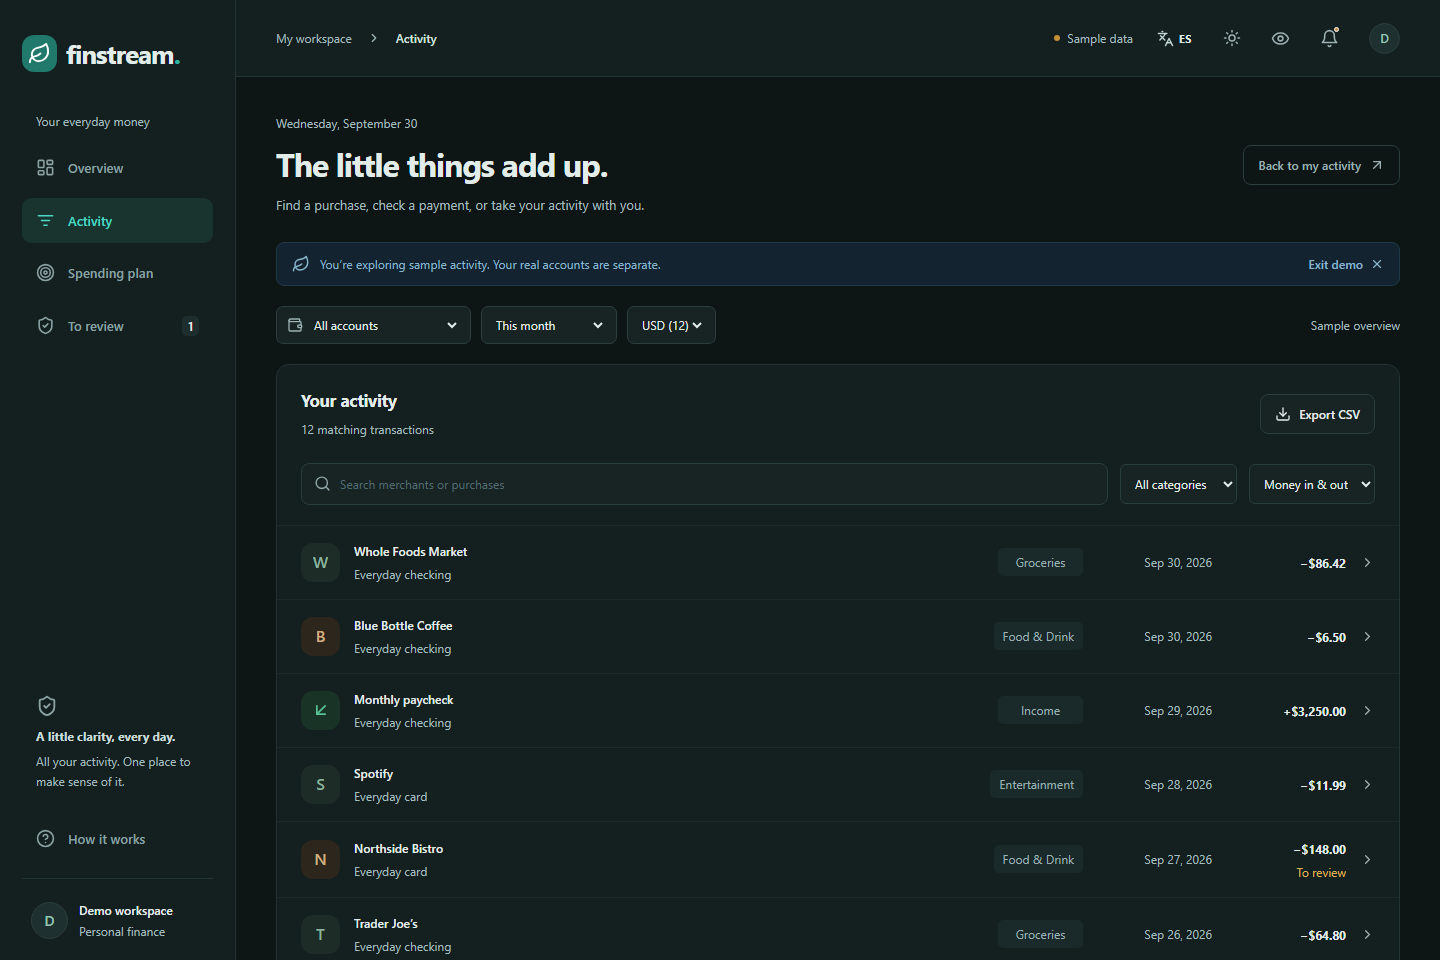
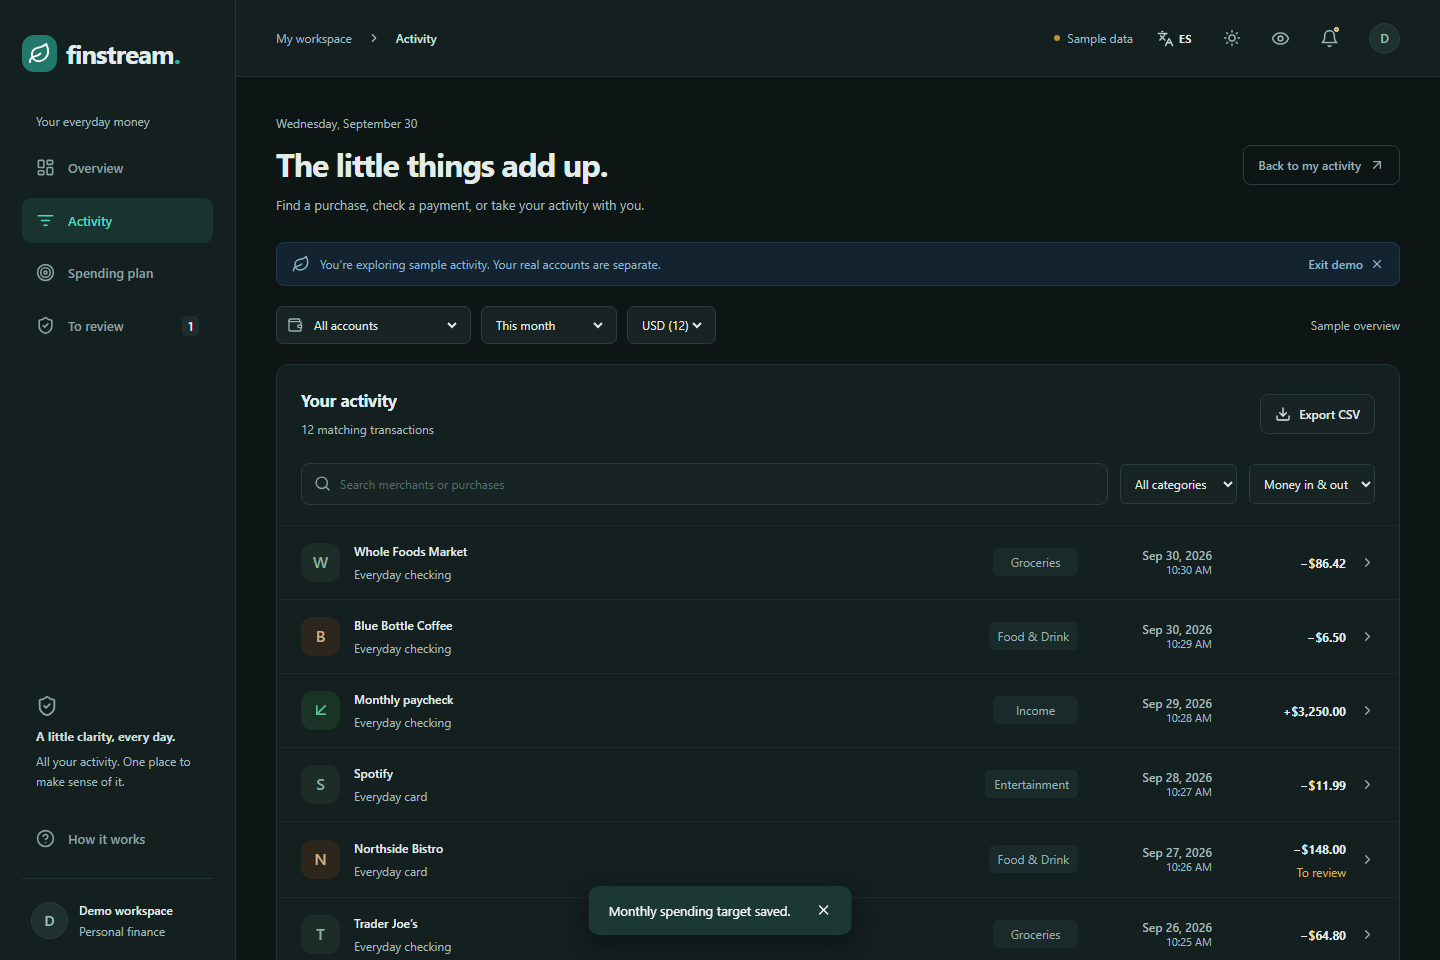
feat(ui): display date and time on transactions across desktop, mobile and modal views

diff --git a/frontend/src/App.tsx b/frontend/src/App.tsx
@@ -67,8 +67,17 @@ export default function App({
   onLogout: () => Promise<void>;
   onExitDemo: () => void;
 }) {
-  const { lang, toggleLang, theme, toggleTheme, t, formatDate, formatMoney } =
-    usePreferences();
+  const {
+    lang,
+    toggleLang,
+    theme,
+    toggleTheme,
+    t,
+    formatDate,
+    formatTime,
+    formatDateTime,
+    formatMoney,
+  } = usePreferences();
   const [demo, setDemo] = useState(!user);
   const storageOwner = user?.id || "guest-demo";
   const live = useLiveTransactions(!demo);
@@ -837,6 +846,8 @@ export default function App({
                             day: "numeric",
                             year: "numeric",
                           })}
+                          {" · "}
+                          {formatTime(tx.transaction_time)}
                         </span>
                       </small>
                     </span>
@@ -844,11 +855,16 @@ export default function App({
                       {translateCategory(tx.category, lang)}
                     </span>
                     <span className="transaction-date">
-                      {formatDate(tx.transaction_time, {
-                        month: "short",
-                        day: "numeric",
-                        year: "numeric",
-                      })}
+                      <span className="transaction-date-day">
+                        {formatDate(tx.transaction_time, {
+                          month: "short",
+                          day: "numeric",
+                          year: "numeric",
+                        })}
+                      </span>
+                      <span className="transaction-date-time">
+                        {formatTime(tx.transaction_time)}
+                      </span>
                     </span>
                     <span
                       className={`transaction-amount ${tx.amount < 0 ? "income-text" : ""}`}
@@ -992,7 +1008,7 @@ export default function App({
                     <h3>{tx.normalized_merchant || tx.raw_description}</h3>
                     <p>{tx.anomaly_reason || t.defaultAnomalyReason}</p>
                     <small>
-                      {formatDate(tx.transaction_time)} ·{" "}
+                      {formatDateTime(tx.transaction_time)} ·{" "}
                       {tx.institution_name || t.connectedAccount}
                     </small>
                   </div>
@@ -1082,8 +1098,8 @@ export default function App({
             </div>
             <dl>
               <div>
-                <dt>{t.date}</dt>
-                <dd>{new Date(detail.transaction_time).toLocaleString()}</dd>
+                <dt>{t.dateTime}</dt>
+                <dd>{formatDateTime(detail.transaction_time)}</dd>
               </div>
               <div>
                 <dt>{t.account}</dt>

diff --git a/frontend/src/context/PreferencesContext.tsx b/frontend/src/context/PreferencesContext.tsx
@@ -60,6 +60,40 @@ export function PreferencesProvider({
     [lang],
   );
 
+  const formatTime = useCallback(
+    (
+      date: Date | string | number,
+      options?: Intl.DateTimeFormatOptions,
+    ): string => {
+      const d = typeof date === "object" ? date : new Date(date);
+      return d.toLocaleTimeString(
+        lang === "es" ? "es-ES" : "en-US",
+        options ?? { hour: "numeric", minute: "2-digit" },
+      );
+    },
+    [lang],
+  );
+
+  const formatDateTime = useCallback(
+    (
+      date: Date | string | number,
+      options?: Intl.DateTimeFormatOptions,
+    ): string => {
+      const d = typeof date === "object" ? date : new Date(date);
+      return d.toLocaleString(
+        lang === "es" ? "es-ES" : "en-US",
+        options ?? {
+          month: "short",
+          day: "numeric",
+          year: "numeric",
+          hour: "numeric",
+          minute: "2-digit",
+        },
+      );
+    },
+    [lang],
+  );
+
   const formatMoney = useCallback(
     (amount: number, currency: string): string => {
       return money(amount, currency, lang === "es" ? "es-ES" : undefined);
@@ -76,6 +110,8 @@ export function PreferencesProvider({
     toggleTheme,
     t: translations[lang],
     formatDate,
+    formatTime,
+    formatDateTime,
     formatMoney,
   };
 

diff --git a/frontend/src/context/preferences-context.ts b/frontend/src/context/preferences-context.ts
@@ -15,6 +15,14 @@ export interface PreferencesContextValue {
     date: Date | string | number,
     options?: Intl.DateTimeFormatOptions,
   ) => string;
+  formatTime: (
+    date: Date | string | number,
+    options?: Intl.DateTimeFormatOptions,
+  ) => string;
+  formatDateTime: (
+    date: Date | string | number,
+    options?: Intl.DateTimeFormatOptions,
+  ) => string;
   formatMoney: (amount: number, currency: string) => string;
 }
 
@@ -28,6 +36,22 @@ export const defaultPreferencesValue: PreferencesContextValue = {
   t: translations.en,
   formatDate: (date, options) =>
     new Date(date).toLocaleDateString("en-US", options),
+  formatTime: (date, options) =>
+    new Date(date).toLocaleTimeString(
+      "en-US",
+      options ?? { hour: "numeric", minute: "2-digit" },
+    ),
+  formatDateTime: (date, options) =>
+    new Date(date).toLocaleString(
+      "en-US",
+      options ?? {
+        month: "short",
+        day: "numeric",
+        year: "numeric",
+        hour: "numeric",
+        minute: "2-digit",
+      },
+    ),
   formatMoney: (amount, currency) => money(amount, currency),
 };
 

diff --git a/frontend/src/lib/i18n.ts b/frontend/src/lib/i18n.ts
@@ -240,6 +240,7 @@ export const translations = {
     dialogDetailsTitle: "Transaction details",
     closeDetails: "Close transaction details",
     date: "Date",
+    dateTime: "Date & time",
     bankDescription: "Bank description",
     notProvided: "Not provided",
     reviewedOnDevice: "Reviewed on this device",
@@ -511,6 +512,7 @@ export const translations = {
     dialogDetailsTitle: "Detalles de la transacción",
     closeDetails: "Cerrar detalles de la transacción",
     date: "Fecha",
+    dateTime: "Fecha y hora",
     bankDescription: "Descripción del banco",
     notProvided: "No proporcionada",
     reviewedOnDevice: "Revisado en este dispositivo",

diff --git a/frontend/src/index.css b/frontend/src/index.css
@@ -727,10 +727,22 @@ main {
   text-align: center;
 }
 .transaction-date {
-  width: 115px;
+  width: 120px;
   text-align: right;
   font-size: 12px;
   color: #536b70;
+  display: flex;
+  flex-direction: column;
+  justify-content: center;
+  align-items: flex-end;
+  line-height: 1.35;
+  flex-shrink: 0;
+}
+.transaction-date-day {
+  font-weight: 500;
+}
+.transaction-date-time {
+  font-size: 11px;
 }
 .transaction-amount {
   text-align: right;
@@ -1128,7 +1140,7 @@ dd {
     font-size: 28px;
   }
   .transaction-date {
-    width: 94px;
+    width: 100px;
   }
   .category-pill {
     min-width: 70px;

diff --git a/frontend/src/lib/i18n.test.ts b/frontend/src/lib/i18n.test.ts
@@ -51,4 +51,12 @@ describe("i18n localization", () => {
     const esHeadings = Object.keys(translations.es.headings).sort();
     expect(esHeadings).toEqual(enHeadings);
   });
+
+  it("provides date and time translations in both English and Spanish", () => {
+    expect(translations.en.dateTime).toBe("Date & time");
+    expect(translations.es.dateTime).toBe("Fecha y hora");
+    expect(Object.keys(translations.en).sort()).toEqual(
+      Object.keys(translations.es).sort(),
+    );
+  });
 });
